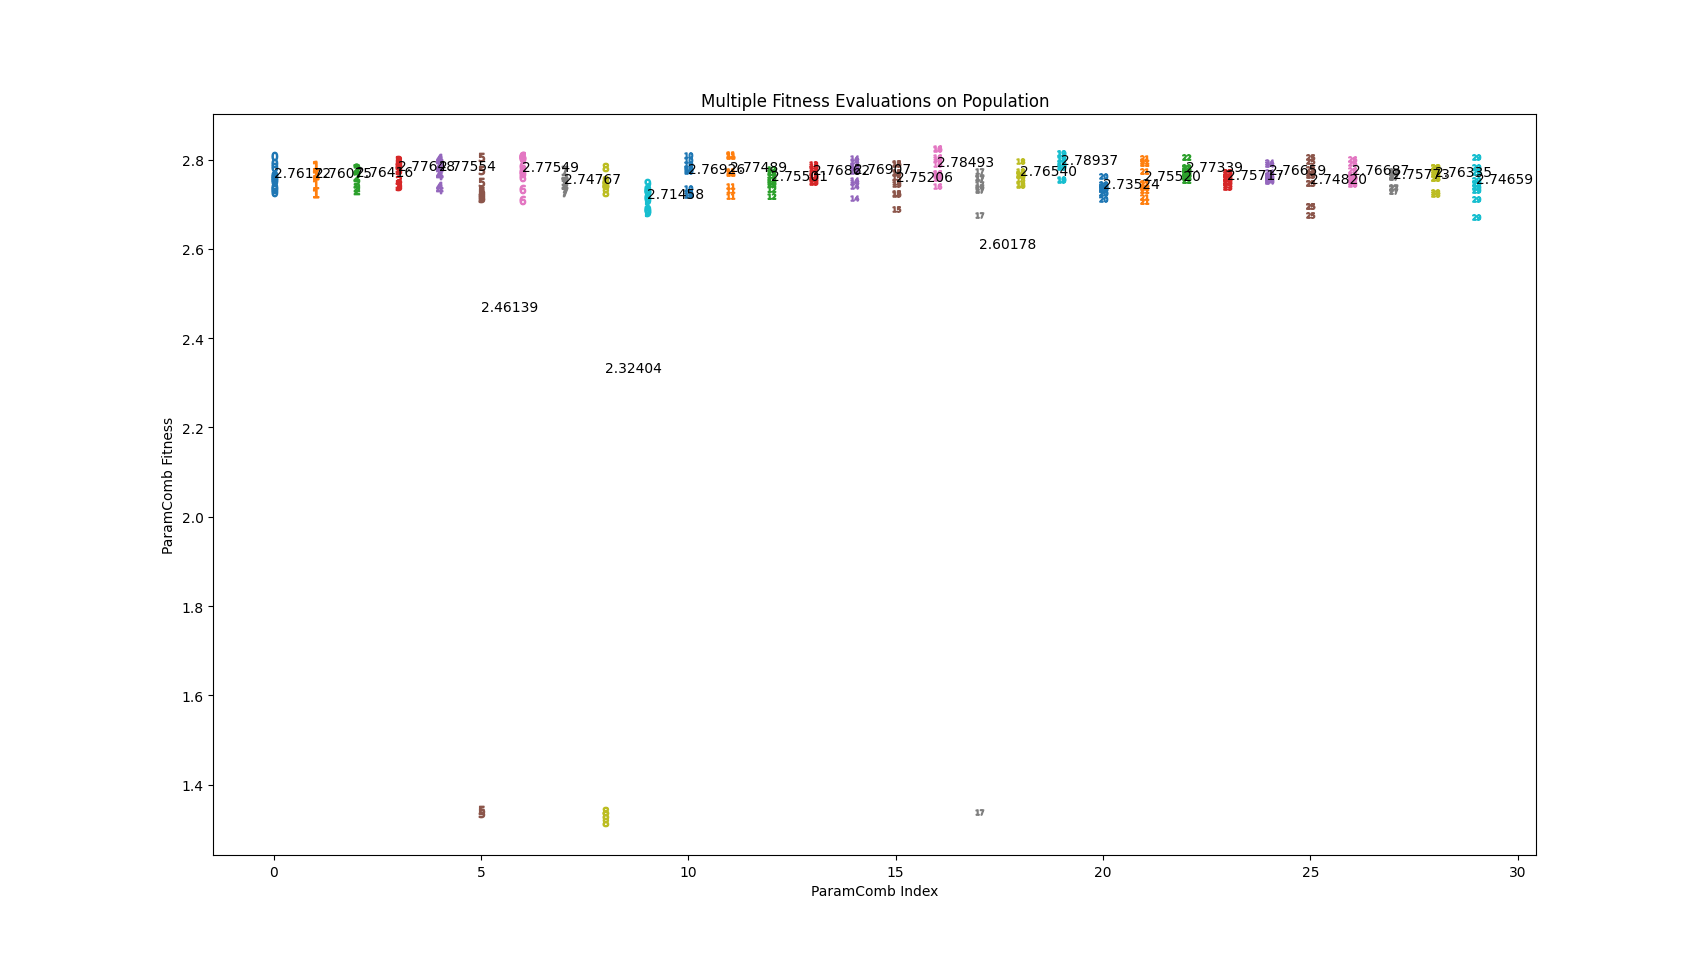
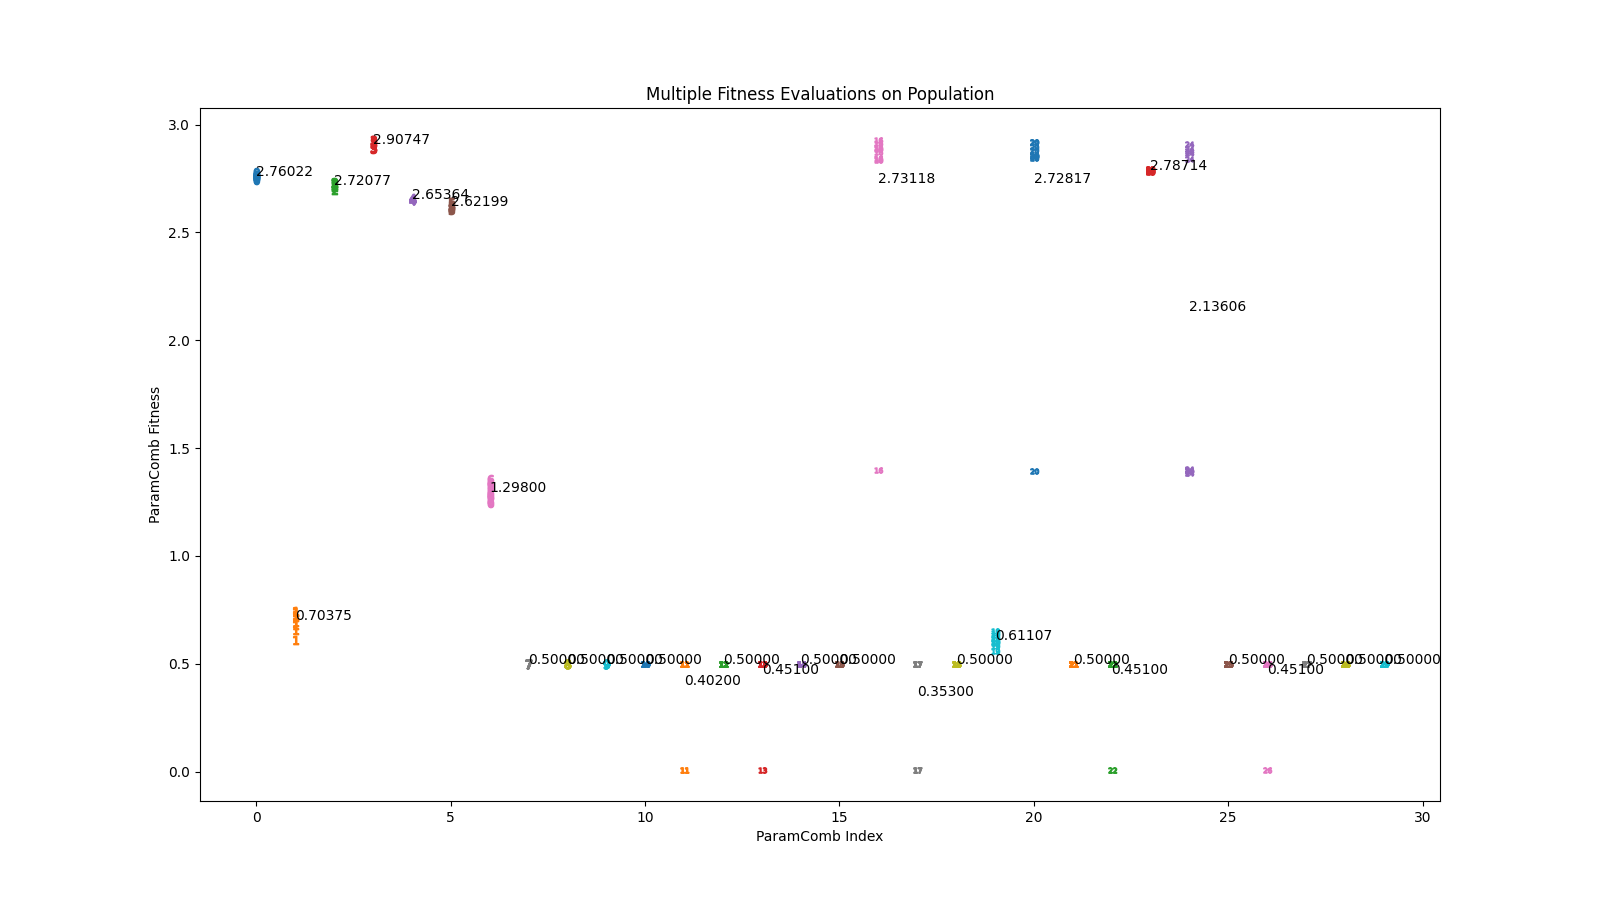
Update final figure and final result

diff --git a/EAofEA/EAEA.py b/EAofEA/EAEA.py
@@ -366,18 +366,18 @@ class OneMaxSolverParamFinder:
 
 
 if __name__ == '__main__':
-    param_finder = OneMaxSolverParamFinder(population_size=30,
-                                           tournament_size=2,
-                                           tournament_selections=3,
-                                           mutation_factor=2.0,
-                                           n_generations=100)
-    param_finder.run(n_processes=3)
-    print("EA done")
+    # param_finder = OneMaxSolverParamFinder(population_size=30,
+    #                                        tournament_size=2,
+    #                                        tournament_selections=3,
+    #                                        mutation_factor=2.0,
+    #                                        n_generations=30)
+    # param_finder.run(n_processes=3)
+    # print("EA done")
 
-    # param_finder = OneMaxSolverParamFinder.load("EA_2022Dec13.pkl")
+    param_finder = OneMaxSolverParamFinder.load("EAEA_g9.pkl")
     # param_finder.evaluatePopulation(5, 10)
 
-    # For now, EA_2022Dec13.pkl report an average evaluation iteration of 807, solve rate of 99%
+    # For now, EA_2022Dec13.pkl report an average evaluation iteration of 930, solve rate of 98.4%
     for i in range(10):
-        param_finder.population[19].evaluate()
-        print(param_finder.population[19])
+        param_finder.population[3].evaluate()
+        print(param_finder.population[3])
